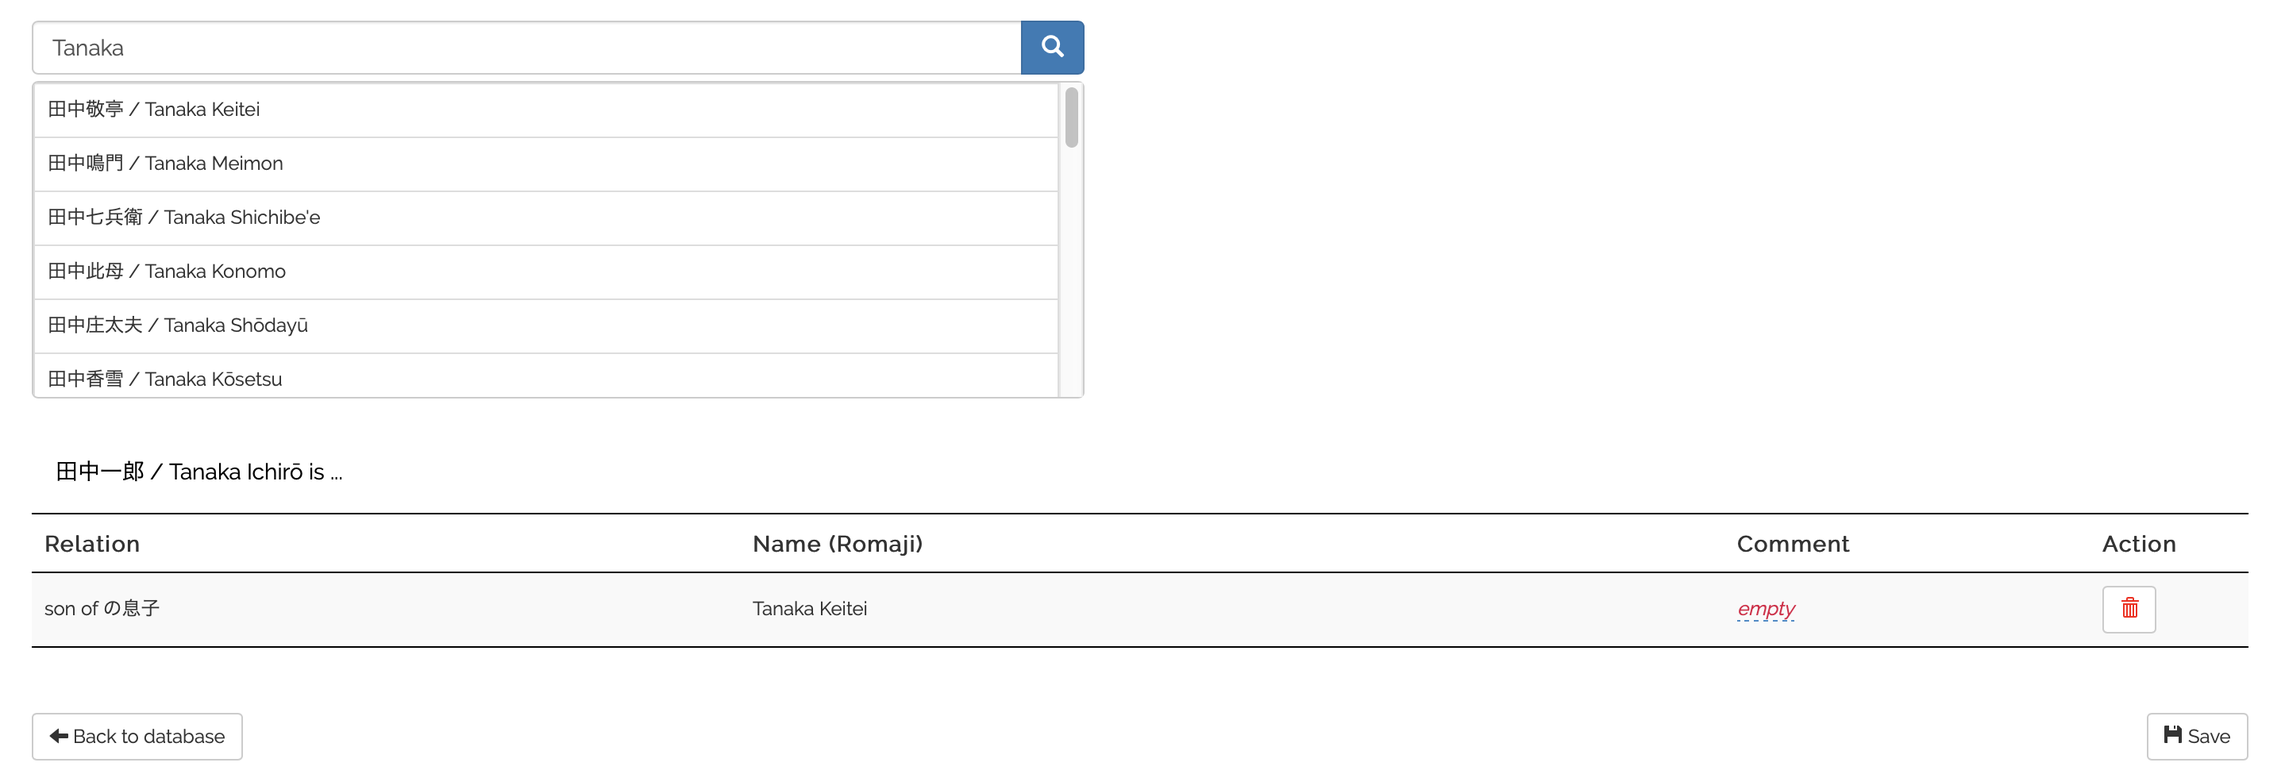
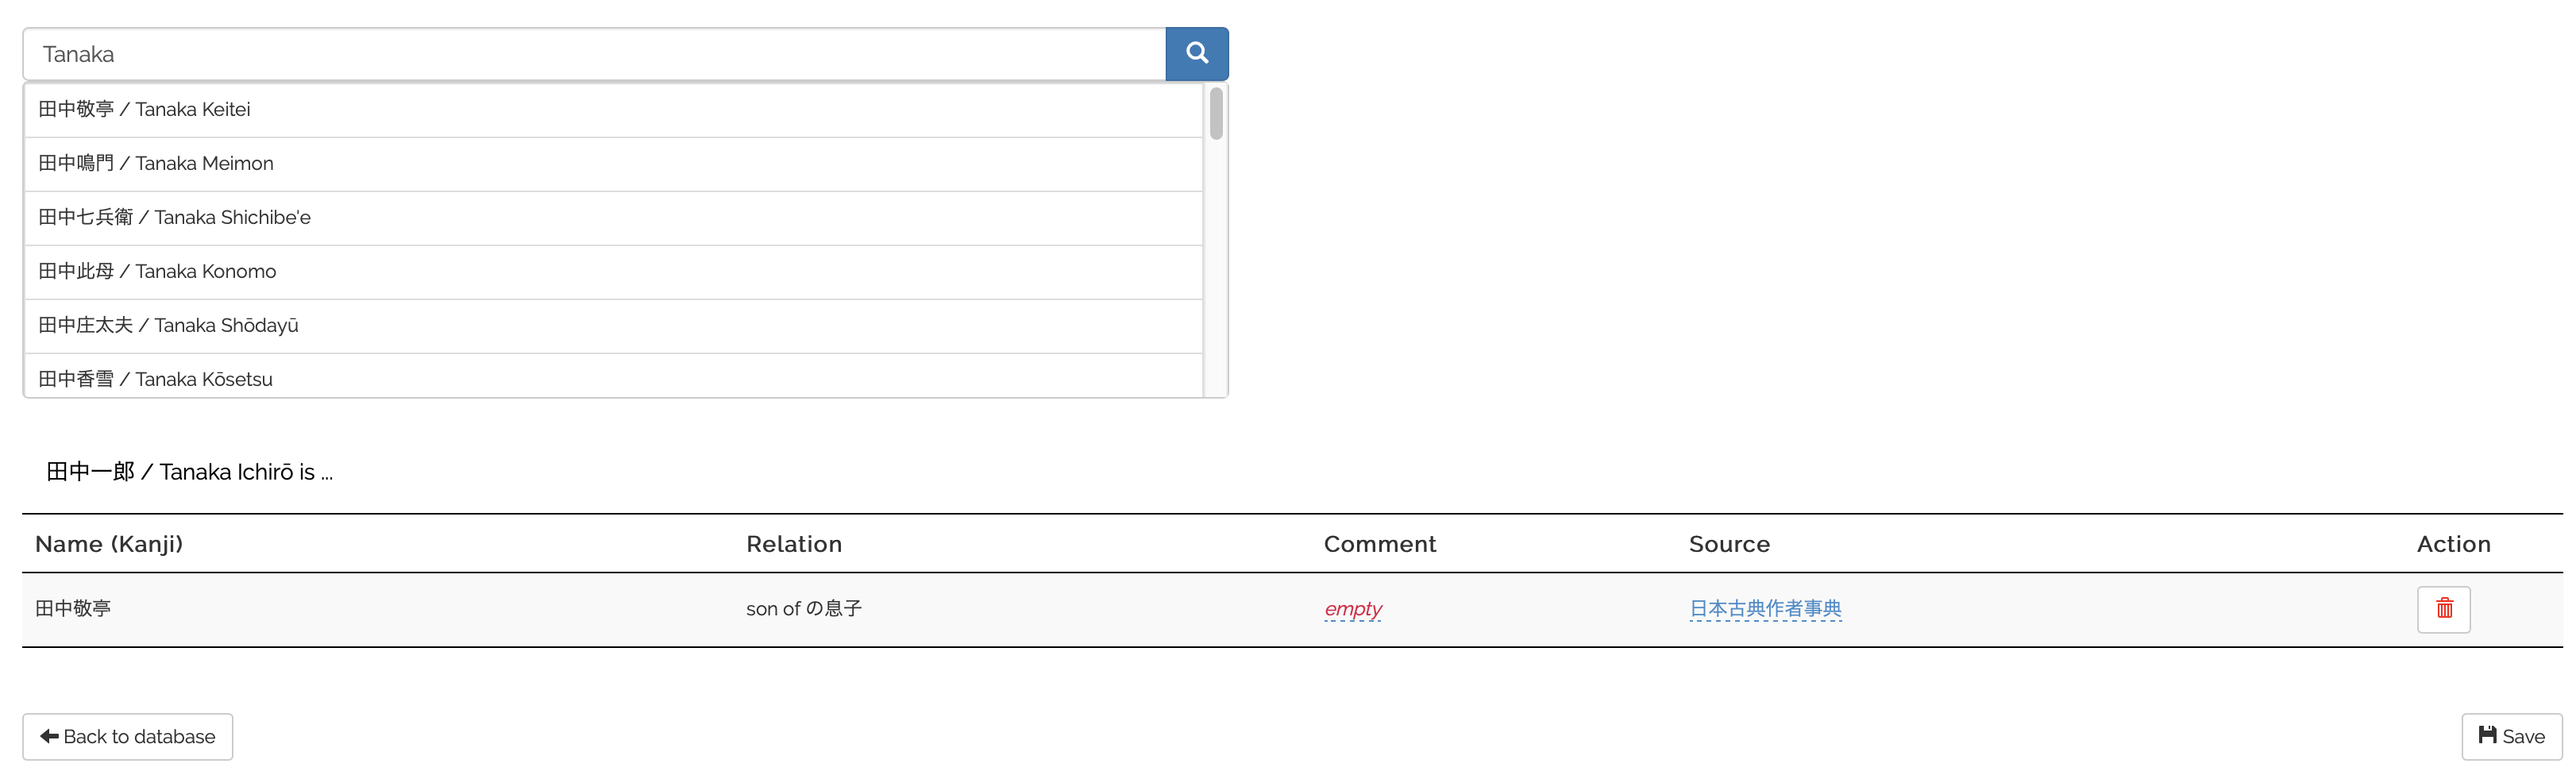
Completed persons section

diff --git a/persons.md b/persons.md
@@ -41,17 +41,21 @@ Other means of searching for persons include filtering by family name only, stat
 
 ![Quickfilter](../img/quickfilter.png)
 
-Enabling search by family name results in matching entries only if the search query appears at the beginning of a name since Japanese names are written in the format LASTNAMEFIRSTNAME (in romaji it is LASTNAME FIRSTNAME). As is obvious, this is only a crude approximation for matching family names and does not work for European names, for example.
+Searching by family name only becomes accessible once a name has been searched for. Enabling search by family name results in matching entries only if the search query appears at the beginning of a name since Japanese names are written in the format LASTNAMEFIRSTNAME (in romaji it is LASTNAME FIRSTNAME). As is obvious, this is only a crude approximation for matching family names and does not work for European names, for example.
 
-Filtering by status or era works by simply selecting the corresponding category you want to have matched from the dropdown. These filters work in conjunction with the search query, so, for example, you can specifically ask for all persons matching "田中" who were scholars. As mentioned, however, filtering by either status or era disables the matching of alternative names.
+Filtering by status or era works by simply selecting the corresponding category you want to have matched from the dropdown. These filters work in conjunction with the search query, so, for example, you can specifically ask for all persons matching "田中" who were warriors. As mentioned, however, filtering by either status or era disables the matching of alternative names.
 
 Additionally, you can set the conjunction parameter __AND__ for the status and era categories. If you select values other than "全部 All" for both of them, you can choose to either keep the default search constraint of having to match both status _and_ era, or to loosen the constraint by allowing to return persons matching either status _or_ era.<sup id="a1">[1](#f1)</sup>
 
 Lastly, note that currently the era selection only considers if either the birth or death date matches the era. It is planned for the future that this operation recognizes whether a person _lived_ during the queried era as well.
 
+You can also just choose to display person entries you created. Currently, this does not account for entries you _modified_ as the assumption is that most users are only able to edit their own entries.
+
+The button "Advanced Search" yields a prototype of a separate search UI that is not implemented well yet (see important notice below).
+
 ### Important notice
 
-Apart from the improvement mentioned in the previous section, we are currently working on a complete overhaul of the search functionality. In the future, searching capabilities will be closely resemble those currently found in the visualization suite (discussed [here](./vissettings.md)). This will include fine-grained search by status, occupation, location etc. *plus* a combination of multiple attributes via __AND__ and __OR__ operators.
+Apart from the improvements mentioned in the previous section, we are currently working on a complete overhaul of the search functionality. In the future, searching capabilities will be closely resemble those currently found in the visualization suite (discussed [here](./vissettings.md)). This will include fine-grained search by status, occupation, location etc. *plus* a combination of multiple attributes via __AND__ and __OR__ operators. This enhanced search capability will likely result in dropping the quickfilter in favor of direct access to an "Advanced Search" view.
 
 ## Adding a new person<a name="adding-a-person"></a>
 
@@ -72,6 +76,8 @@ You will notice that the view defaults to the tab "Basic information" and that t
 Before we turn our attention to the kinship and non-kinship relations, however, let us complete the remaining basic information.
 
 ### Basic information<a name="basic-information"></a>
+
+#### Names
 
 After entering the person's main name in kanji, furigana, and romaji, you can proceed to enter additional names that person was known by. Simply click on the "Add other names" button and the following modal window will appear:
 
@@ -100,13 +106,129 @@ The table allows you to remove or edit any alternative name. By clicking on an u
 
 Once you are done, you can either click the "x" mark on the top-right of the modal window or just click outside of it to close it.
 
-After that come the other basic information of a person, including gender, status, occupation, and birth and death years. The age of a person is automatically determined as soon as at least years are set for both birth and death. Note that we consider the Japanese [*kazoedoshi* 数え年](https://en.wikipedia.org/wiki/East_Asian_age_reckoning#Japan) for age.
+#### Gender, Status, Occupation, Religion
+
+After that come the other basic information of a person, including gender, status, occupation and religious affiliation.
+
+Statuses (at birth) are displayed in an hierarchical fashion. The top levels of any status category are not selectable. Therefore, the 百姓 Villager category cannot be selected directly, but instead a sub-cateory has to be chosen. The available statuses are:
+
+* 不明 Unknown
+  * 不明 Unknown
+* 公家 Noble house
+  * 不明 Unknown
+  * 公卿・公家・貴族 Aristocrat
+  * 門跡 Aristocratic Buddhist abbot
+  * 下級官人 Low-ranking court official
+  * 公家奉公人 Noble house retainer/dependent
+* 武家 Warrior house 
+  * 不明 Unknown
+  * 武家 Warrior 
+  * 家来・家臣 Warrior retainer/vassals/dependent)
+  * 武家奉公人 Warrior house servant
+  * 郷士 Rural warrior
+  * 浪人 Rōnin/other
+  * 下人、下男、下女 Servant
+* 百姓 Villager 
+  * 不明 Unknown
+  * 村役人 Village official
+  * 村人・本百姓 Land-owning villager 
+  * 小作人・水呑百姓 Tenant farmer
+  * 被官百姓 Bound servant
+  * 下人、下男、下女 Servant
+* 町人 Townspeople
+  * 不明 Unknown
+  * 町役人 Town official
+  * 本町人・町衆 Land-owning townspeople
+  * 借家人 Tenant
+  * 奉公人 、下人、下男、下女 Servant 
+  * 無宿 Unregistered person
+* 宗教者 Religious profession
+  * 不明 Unknown
+  * 僧侶 Buddhist cleric 
+  * 神職 Shrine priest 
+  * キリスト教聖職者 Christian cleric  
+  * 修験者 Mountain ascetic
+  * 民間宗教者 Other religionist
+* 他 Others
+  * 被差別民 Outcast 
+  * 他 Other
+  
+The following occupations can be chosen for a person:
+
+* 不明 Unknown
+* 農民 Farmer
+* 商人 Merchant
+* 工人・職人 Artisan
+* 学者 Scholar
+* 芸人・芸者・遊女 Performing artist/entertainer; incl. sumo, actor, courtesan
+* 医者 Physician
+* 文学者 Writer/poet 
+* 芸術家 Visual artist
+* 師匠 Teacher, incl. martial arts, shogi/go, tea, military strategy
+* 当道座 Member of the guild of blind
+* 教員 Teacher
+
+Lastly, religious affiliations are structured hierarchically as well. In contrast to statuses, however, it is possible to select the top-level categories as well. Therefore, the list of available religious affiliations looks like this:
+
+* 不明 Unknown
+* トップ・レベル Top level
+  * キリスト教 Christianity
+  * 新宗教（日本） Jap. New Religions
+  * 仏教 Buddhism
+  * 神道 Shintō
+  * イスラーム Islam
+  * ユダヤ教 Judaism
+  * ヒンドゥー教 Hinduism
+  * その他 Other
+* キリスト教 Christianity 
+  * カトリック Catholic
+  * プロテスタント Protestant
+  * 正教会 Orthodox
+  * その他 Other
+* 仏教 Buddhism
+  * 天台宗 Tendai
+  * 真言宗 Shingon
+  * 浄土宗 Pure Land
+  * 浄土真宗 True Pure Land
+  * 禅宗 Zen
+  * 日蓮宗 Nichiren
+  * その他　Other
+
+Note that status, occupation, and religious affiliation currently do not account for fluidity (e.g. a person changing his/her occupation). We are currently working on ways to adress this in the future.
+
+#### Birth and Death Dates, Age
+
+The age of a person is automatically determined as soon as at least years are set for both birth and death. Note that we consider the Japanese [*kazoedoshi* 数え年](https://en.wikipedia.org/wiki/East_Asian_age_reckoning#Japan) for age.
 
 Regarding dates, each finer unit is blocked unless the next higher unit has a value other than "[Unknown]". This means that you will first have to select the era (or 年号) of the date before you can select a year; you have to select a year before you can select a month, and so on. The era list includes starting years (in Western calendar) for each era as a quick pointer.
 
 The intercalary (or 閏) checkbox for dates is intended to be applied to actual intercalary months, not to dates in a year that happen to have an intercalary month. So, for example, if there are two dates, 天保1年3月4日 and 天保1年閏3月4日, the first would be entered by selecting 3月4日 without checking the intercalary checkbox, and only the second one would be selected with checking the intercalary box. It is not meant to be selected by virtue of the year 天保1年 having an intercalary month; the checkbox is supposed to be only selected for one month of that year (namely, the actual intercalary month).
 
 ![Add person 3](../img/add-person-3.png)
+
+#### Origin
+
+You can also select either the birthplace of a person or an associated place of residence. Entering this information is a two-step process. First, you have to select the geographical region appropriate for that person:
+
+* [未詳] [Unknown]
+* 日本 Japan
+* 中国 China
+* 朝鮮・韓国 Korea
+* 琉球諸島 Ryūkyū Islands
+* アジア（蝦夷等） Other Asian countries (incl. Ezo)
+* ヨーロッパ Europa
+* アメリカ州 Americas
+* その他 Other
+
+Depending on the selected region, different places and place categories become available. You can either leave the top level category set to the default value of 全部 All or specify a specific sub-category. Just like searching for persons, simply enter a name and select the corresponding place. If multiple results are available, you can check the selected place on the map on the right:
+
+![Add person 4](../img/add-person-4.png)
+
+The field "Other" can be used either when a place to be entered cannot be found (in this case, the place won't be shown on any maps) or if you want to specify the exact address.
+
+For Japan, the data we use comes from the [歴史地名データセット](https://www.nihu.jp/ja/publication/source_map). Please refer to their documentation for an overview of available place categories. For the remaining regions, we are currently working on integrating the [GeoNames gazetteer](http://download.geonames.org/export/dump/) into our database.
+
+#### Sources
 
 Lastly, please select the source you have used to gather the information on this person. You can search or scroll through the the dropdown of sources to see whether it is already present or not:
 
@@ -167,11 +289,13 @@ The relation will now be shown in the table at the bottom.
 
 ![Add kinship 3](../img/add-kinship-3.png)
 
-You can additionally leave a comment for any specific relation, e.g. if someone has multiple wives, you could use the comment attribute to specify "second wife" as a comment for a "husband of"-relation.
+Note that when selecting the relation, or afterwards, you can specify a source as well. The source is optional and for simplicity's sake, this is limited to one source per relation.
+
+You can additionally leave a comment for any specific relation, e.g. you could use the comment attribute to specify when somebody was adopted.
 
 Once you save this person, the kinship entry will be added to the database.
 
-Note that any complementary relation gets automatically created, so you do not need to do that yourself. For example, since we added the relation that Tanaka Ichirō is the son of Tanaka Keitei, after saving the new person entry the relation that Tanaka Keitei is the father of  Tanaka Ichirō gets automatically added as well.
+Note that any complementary relation gets automatically created, so you do not need to do that yourself. For example, since we added the relation that Tanaka Ichirō is the son of Tanaka Keitei, after saving the new person entry the relation that Tanaka Keitei is the father of Tanaka Ichirō gets automatically added as well.
 
 ### Non-kinship relations<a name="non-kinship-relations"></a>
 
@@ -200,11 +324,11 @@ The available non-kinship relations are as follows:
 * の雇用者 employer of
 * の被雇用者 employee of
 
-The selection of these relations works the same way as for kinship relations. Similar to kinship relations, you can leave a comment as well.
+The selection of these relations works the same way as for kinship relations. Similar to kinship relations, you can select a source and leave a comment as well.
 
 ### Important notice
 
-Soon, we will allow for associating a source to a (non-)kinship relation. For simplicity's sake, this will be limited to one source per relation. Furthermore, we are thinking about adding dates to (non-kinship) relations. We will update this user guide as soon these changes have been implemented.
+Soon, we will allow for adding dates to (non-)kinship relations. We will update this user guide as soon these changes have been implemented.
 
 <br>
 
@@ -220,7 +344,11 @@ All of the above holds for editing kinship and non-kinship relations for already
 
 In order to delete a person, you have to click the trash box button on the right of a person entry in the front table. Note that you can only delete persons you have access rights to; in most cases, these are persons you have created with your account.
 
-Deleting a person requires you to confirm the process. Once you accept the prompt, the person will be deleted. Along with the person entry, all associated kinship and non-kinship relations get deleted. Furthermore, all source attributions for that person get removed from the database as well. Lastly, in all events that deleted person participated in, that person's ID will be replaced by the __[不明] [Unknown]__ entity.
+Deleting a person requires you to confirm the process:
+
+![Deletion prompt](../img/delete-prompt.png)
+
+Once you accept the prompt, the person will be deleted. Along with the person entry, all associated alternative names, kinship relations, and non-kinship relations get deleted. Furthermore, all source attributions for that person get removed from the database as well. Lastly, in all events that deleted person participated in, that person's ID will be replaced by the __[不明] [Unknown]__ entity.
 
 ---
 
